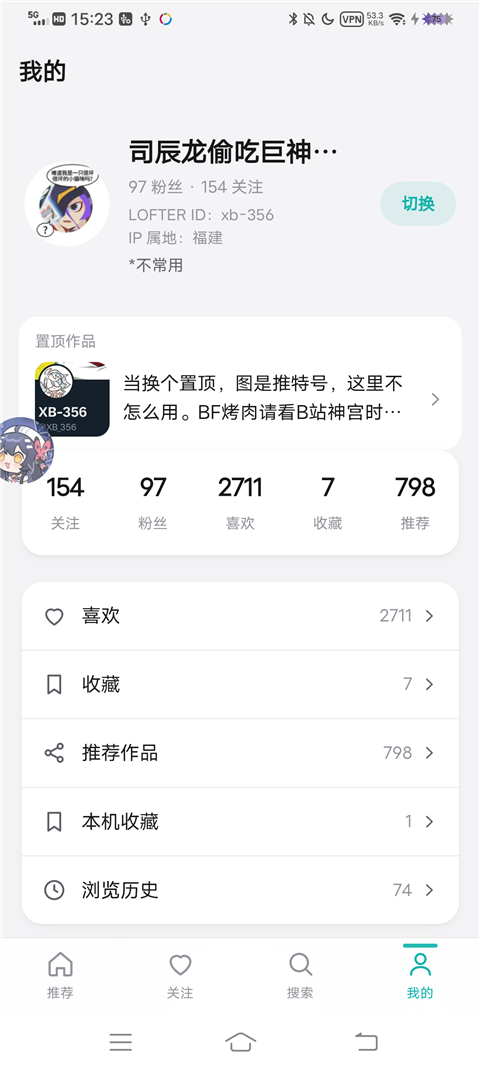
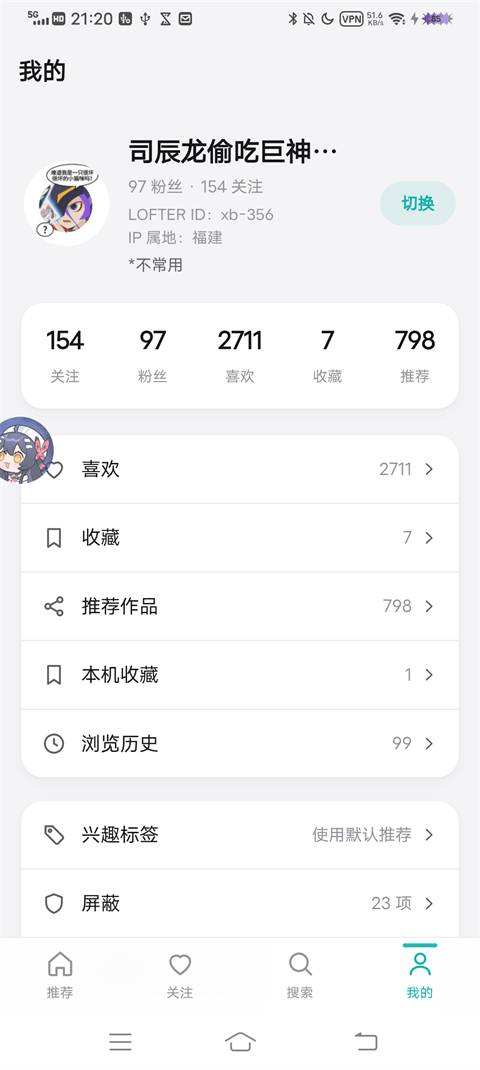
docs: 截图换成 1.0.0 真机实拍，「它能做什么」扩写并详述增强屏蔽

diff --git a/README.md b/README.md
@@ -16,17 +16,41 @@
 
 ## 截图
 
-| 推荐 | 关注 | 我的 |
-| --- | --- | --- |
-| ![推荐流](docs/screenshots/feed.png) | ![关注流](docs/screenshots/following.png) | ![我的](docs/screenshots/me.png) |
+| 推荐 | 关注 | 订阅标签 | 作品 |
+| --- | --- | --- | --- |
+| ![推荐流](docs/screenshots/feed.png) | ![关注流](docs/screenshots/following.png) | ![订阅标签](docs/screenshots/tags.png) | ![作品详情](docs/screenshots/post.png) |
 
-| 屏蔽 | 搜索 | 博主主页 |
-| --- | --- | --- |
-| ![屏蔽](docs/screenshots/block.png) | ![搜索](docs/screenshots/search.png) | ![博主主页](docs/screenshots/blog.png) |
+| 我的 | 屏蔽 | 搜索 | 博主主页 |
+| --- | --- | --- | --- |
+| ![我的](docs/screenshots/me.png) | ![屏蔽](docs/screenshots/block.png) | ![搜索](docs/screenshots/search.png) | ![博主主页](docs/screenshots/blog.png) |
 
 ## 它能做什么
 
 保留查看推荐、关注动态、订阅标签等基础内容，增强屏蔽。
+
+**基础浏览**
+
+- **推荐流**：瀑布流刷图，视频帖带封面和播放时长，多图帖有缩略预览，可按标签筛选
+- **关注动态**：动态 / 订阅标签两栏切换；「包含关注人的推荐」可开关；首屏三页，滚到底按需加载
+- **订阅标签**：每个标签一张大卡片 + 三张缩略图，缩略图缓存在本机，下次打开立刻有图；纯文字标签有占位块
+- **作品详情**：多图、视频、发布与编辑时间、所属合集（可翻上一篇 / 下一篇）、评论与楼中楼
+- **评论**：热门 / 最新切换；图片评论显示缩略图，点开看大图；划线评显示被划住的原文
+- **搜索**：标签、用户、作品三类结果，作品直接以作品卡片展示
+- **账号页**：关注 / 粉丝 / 喜欢 / 收藏 / 推荐都能点进去看列表；博主主页显示 LOFTER ID、IP 属地、简介与置顶作品
+- **阅读体验**：保存图片到相册、复制作品链接自动跳转、返回上一页回到原位置、深色模式跟随系统
+
+**增强屏蔽（重点）**
+
+- **四种「不想看」**：屏蔽标签、关键词、屏蔽用户、拉黑名单，统一收在「我的 → 屏蔽」一个入口里，进去后顶栏切换
+- **屏蔽标签**：推荐、话题、关注流里带这个标签的内容全部隐藏；整个标签都被过滤时给出说明，不留空白页
+- **关键词**：标题、摘要、标签命中关键词就隐藏
+- **屏蔽用户**：只在这台设备上静默隐藏 TA 的作品，不通知对方、也不改动账号
+- **拉黑名单**：账号级黑名单的镜像，可以从账号同步黑名单与标签
+- **隐藏粮票 / 付费作品**：设置里一键开关，默认隐藏
+- **就地屏蔽**：作品详情页点「屏蔽」可直接屏蔽作者或当前标签；长按卡片只弹屏蔽面板，不会选中文字
+- **屏蔽说明卡**：打开被屏蔽的链接时，卡片显示作者、标题、标签与「被什么原因屏蔽」，可以选「继续观看」
+- **备份与同步**：名单可导入 / 导出成 JSON；也可以选择把标签屏蔽、拉黑同步到账号（写账号操作，需登录，短时间连续操作可能触发滑块验证）
+- **统一入口**：屏蔽页右下角固定「导入 / 导出」小长条按钮
 
 ## 这里没有
 
